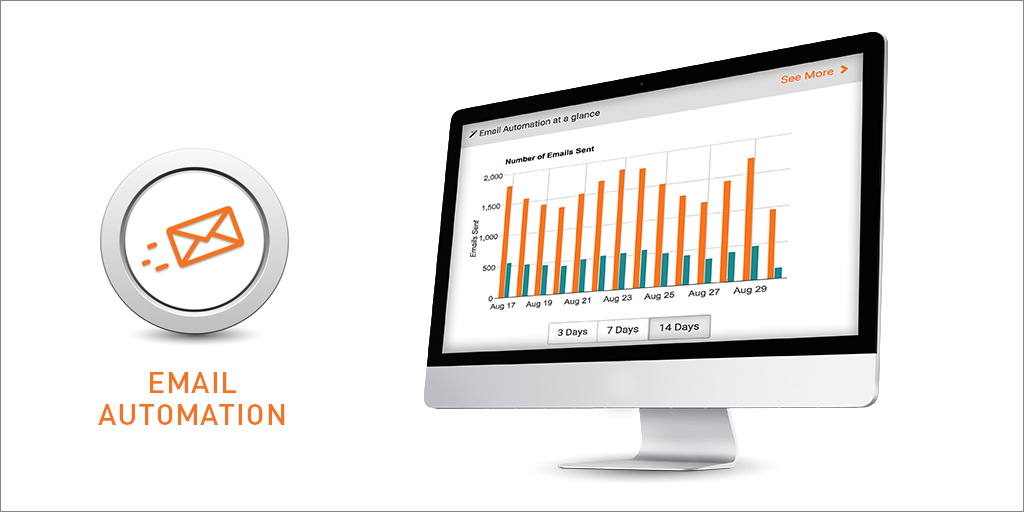
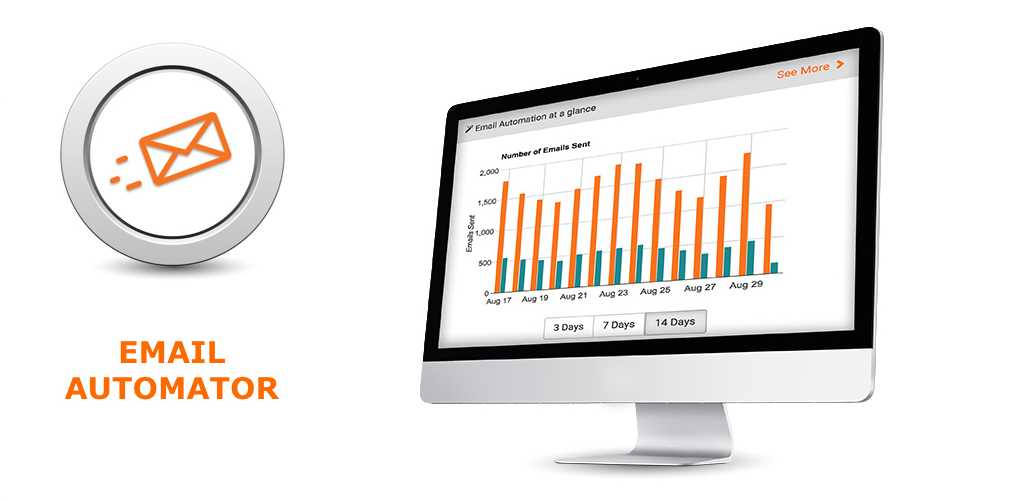
Feedback Manager page updated

diff --git a/content/pages/feedback.html b/content/pages/feedback.html
@@ -6,7 +6,7 @@
     <meta name="tool_page" content="true" />
 
 
-
+<!--
     <style>
     .container-fluid.full-width {
             padding-left: 0!important;
@@ -41,6 +41,7 @@
 
 
     </style>
+    -->
 </head>
 
 
@@ -48,30 +49,10 @@
 
     <div class="row">
     <div class="col-lg-8 col-lg-offset-2">
-        <h1 class="text-center">Feedback Manager</h1>
+        <h1 class="text-center">FEEDBACK MANAGER</h1>
+        <h2 class="text-center"><small>Reviews and Feedback Management for Amazon Sellers</small></h2>
+
         <p class="Class2">Reviews and feedback are the most important social proof of your product. Amazon's ranking algorithm places heavy importance on the first 21 reviews received after product launch and beyond. With Feedback Manager, you can set up alerts to track your feedback and always be ready to support buyers by taking quick action. At any time, search all of your feedback and reviews and detect patterns for potential problems.</p>
-
-        <!--
-        <p>Reviews are, by far, the most important social proof of your product.
-        When a buyer leaves a negative review, you want to quickly connect with them and help out.
-        We provide accurate buyer-reviewer matching, including for anonymous 'Amazon Customers'.
-        Our Review Matcher notifies you about reviews and feedback.
-        At any time, you can search all of your reviews within the our Data Warehouse. </p>
-
-        <p><strong style="color: darkorange">Update</strong>: Efficient Era's buyer-review matching is back!
-            We can once again match your
-            reviews to buyers, after the changes Amazon made it their pages on October 26th, 2017.
-            We are also aware that this is not likely to be a permanent solution.
-            Amazon’s recent changes to their web pages has convinced us that they could make changes to
-            their pages and services at any time. While this might be a recurring theme, we are
-            committed to evolving and finding ways to help you connect the dots and fill in the gaps
-            that Amazon leaves behind. We want our tools to make it easy for you as a seller,
-            to operate at maximum efficiency.
-
-            As a leader in the space of buyer-review matching, we are committed to continue bringing you
-            the <strong><i>most reliable</i></strong> solutions for your review matching needs.
-        </p>
-        -->
     </div>
     </div>
 
@@ -85,68 +66,47 @@
     <div class="row">
     <div class="col-lg-4 col-lg-offset-2">
                  <p>
-                            <ul class="fa-ul">
-<!--                                <li class=""><i class="fa-li fa fa-check-square" style="color: darkorange"></i><span style="color:#009999; font-weight: 600"><strong>Automatic Buyer-Reviewer Matching</strong></span></li>
-                            <p>We can accurately match your reviews to buyer IDs for verified purchases made from your seller account
-                            if you provide us with Seller Central credentials. But even in the absence of Seller Central credentials,
-                            we can still match them with about 35% accuracy. All your reviews can be searched, filtered and exported.
-                            </p>
+                    <ul class="fa-ul">
+                    <li class=""><i class="fa-li fa fa-rocket" style="color: darkorange"></i><span style="color:#009999; font-weight: 600"><strong>Review Alerts</strong></span></li>
+                    <p>
+                    You don't want to miss knowing when a review was posted. This is especially true of negative reviews.
+                        Set up an alert with a rule to either send yourself a mail for each review or as a daily digest.
+                        You can also set up alerts for multiple emails, even separate ones for positive and negative reviews.
 
--->
-
-
-<!--                            <li class=""><i class="fa-li fa fa-check-square" style="color: darkorange"></i><span style="color:#009999; font-weight: 600"><strong>Review Changes</strong></span></li>
-                            <p>
-                            If you are doing the right things to help resolve customer issues, chances are they might change their rating or review text. You know that it would be
-                                nearly impossible to keep track of these changes manually. Our Review Change List helps keep track of review changes automatically for you.
-                            </p>
--->
-
-                            <li class=""><i class="fa-li fa fa-rocket" style="color: darkorange"></i><span style="color:#009999; font-weight: 600"><strong>Review Alerts</strong></span></li>
-                            <p>
-                            You don't want to miss knowing when a review was posted. This is especially true of negative reviews.
-                                Set up an alert with a rule to either send yourself a mail for each review or as a daily digest.
-                                You can also set up alerts for multiple emails, even separate ones for positive and negative reviews.
-
-                            </p>
-                            <li class=""><i class="fa-li fa fa-rocket" style="color: darkorange"></i><span style="color:#009999; font-weight: 600"><strong>Order Lookup</strong></span></li>
-                            <p>
-                            There are two ways to look up your order matches. If we are able to match a review for you the order number shows up in the Review List.
-                            If not, you can still trace them manually via the Orders List in our Data Warehouse.
-                            Click <a href="https://efficientera.com/blog/2017/11/heres-why-your-amazon-business-needs-a-data-warehouse.html" target="_blank" style="color: darkorange;">here</a>
-                            for ideas on how you can do this using wish lists and registries.
-                            </ul>
-                        </p>
+                    </p>
+                    <li class=""><i class="fa-li fa fa-rocket" style="color: darkorange"></i><span style="color:#009999; font-weight: 600"><strong>Order Lookup</strong></span></li>
+                    <p>
+                    There are two ways to look up your order matches. If we are able to match a review for you the order number shows up in the Review List.
+                    If not, you can still trace them manually via the Orders List in our Data Warehouse.
+                    Click <a href="https://efficientera.com/blog/2017/11/heres-why-your-amazon-business-needs-a-data-warehouse.html" target="_blank" style="color: darkorange;">here</a>
+                    for ideas on how you can do this using wish lists and registries.
+                    </ul>
+                </p>
     </div>
     <div class="col-lg-4">
                  <p>
-                            <ul class="fa-ul">
+                    <ul class="fa-ul">
+                    <li class=""><i class="fa-li fa fa-rocket" style="color: darkorange"></i><span style="color:#009999; font-weight: 600"><strong>Review Charts</strong></span></li>
+                    <p>
+                        While you won't need to see these every day, review charts are a useful analytical tool that provides visual cues
+                        to gauge the overall health of your reviews. We provide charts showing aggregate and cumulative values of your reviews and ratings over time.
+                        You can also see the breakdown of your reviews by geography.
+                    </p>
 
+                    <li  class=""><i class="fa-li fa fa-rocket" style="color: darkorange"></i><span style="color:#009999; font-weight: 600"><strong>Seller Feedback</strong></span></li>
+                    <p>
+                    While Seller Feedback is different from product reviews, a lot of buyers confuse the two and leave product
+                        related feedback instead. Our seller feedback list is a searchable repository of all your seller feedback.
+                        We also provide automatic seller feedback response automation for negative ratings.
 
-                            </p>
-                            <li class=""><i class="fa-li fa fa-rocket" style="color: darkorange"></i><span style="color:#009999; font-weight: 600"><strong>Review Charts</strong></span></li>
-                            <p>
-                                While you won't need to see these every day, review charts are a useful analytical tool that provides visual cues
-                                to gauge the overall health of your reviews. We provide charts showing aggregate and cumulative values of your reviews and ratings over time.
-                                You can also see the breakdown of your reviews by geography.
-                            </p>
-
-                            <li  class=""><i class="fa-li fa fa-rocket" style="color: darkorange"></i><span style="color:#009999; font-weight: 600"><strong>Seller Feedback</strong></span></li>
-                            <p>
-                            While Seller Feedback is different from product reviews, a lot of buyers confuse the two and leave product
-                                related feedback instead. Our seller feedback list is a searchable repository of all your seller feedback.
-                                We also provide automatic seller feedback response automation for negative ratings.
-
-                            </p>
-                            </ul>
-                        </p>
-
-
+                    </p>
+                    </ul>
+                </p>
     </div>
     </div>
 
     <div>
-        <br></br>
+        <br>
     </div>
 
     <div class="jumbotron">
@@ -161,7 +121,7 @@
         </p>
 
     </div>
-
+    </div>
 
 </body>
 </html>

diff --git a/content/pages/postorder.html b/content/pages/postorder.html
@@ -1,16 +1,114 @@
 <html>
 <head>
-    <title>Email Automation</title>
+    <title>Email Automator</title>
     <meta name="save_as" content="pages/postorder/index.html" />
     <meta name="no_well" content="true" />
+    <meta name="tool_page" content="true" />
 </head>
 <body>
+
+
+
+    <div class="row">
+    <div class="col-lg-8 col-lg-offset-2">
+        <h1 class="text-center" style="font-weight: 500">EMAIL AUTOMATOR</h1>
+        <h2 class="text-center"><small>Email Auto-Responder for Amazon Sellers</small></h2>
+        <p class="Class2"> Even with buyer opt-outs, sending follow-up emails is totally worth it! Our easy-to-use Email Automator helps you trigger emails when a product is ordered, shipped or delivered. Fully integrated with Amazon's Buyer-Seller Messaging service, and within Terms of Service.
+            Weave placeholders into your message to dynamically address the buyer by full name, include the product they bought and add links to leave reviews. Create eye-catching emails with our rich text editor or customize the HTML.</p>
+    </div>
+    </div>
+        <br>
+
+
+    <div class="row">
+        <div class="col-lg-8 col-lg-offset-2">
+            <div class="row">
+                <img src="/images/pages/emailAutomationBanner.jpg" width="100%" alt="Amazon Email Automation, Tools for Amazon Sellers, Amazon Seller Tools, Email Autoresponder">
+            </div>
+    </div>
+
+    <div class="row">
+    <div class="col-lg-4 col-lg-offset-2">
+                 <p>
+                    <ul class="fa-ul">
+                    <li class=""><i class="fa-li fa fa-rocket" style="color: darkorange"></i><span style="color:#009999; font-weight: 600"><strong>Customizable Email Templates</strong></span></li>
+                    <p>
+                    Email Automator comes with pre-populated post-order email templates that you can modify and customize based on your requirements.
+                    Our placeholders make it easy for you to personalize your message for each order, for example, by addressing the customer by their full name or
+                    referring to their order number, without having to manually reference it.
+
+                    </p>
+                    <li class=""><i class="fa-li fa fa-rocket" style="color: darkorange"></i><span style="color:#009999; font-weight: 600"><strong>Images and Attachments</strong></span></li>
+                    <p>
+                    Inserting images is easy with Email Automator's formatting tool. We support standard image formats.
+                        You can also insert PDFs (within Amazon Terms of Service).
+                        Create a global collection of PDFs that you can use across multiple campaigns.
+                        Attach upto 10 attachments per email campaign.
+
+
+                    <li class=""><i class="fa-li fa fa-rocket" style="color: darkorange"></i><span style="color:#009999; font-weight: 600"><strong>Trigger Based Delivery</strong></span></li>
+                    <p>
+                    We provide 3 types of events to trigger your emails based on when an order is confirmed, shipped or delivered.
+                        While confirmed and shipped dates are inputs from real time Amazon data, the delivered date is an estimate
+                        or arrival based on historical averages on distances.
+                    </ul>
+                </p>
+    </div>
+    <div class="col-lg-4">
+                 <p>
+                    <ul class="fa-ul">
+                    <li class=""><i class="fa-li fa fa-rocket" style="color: darkorange"></i><span style="color:#009999; font-weight: 600"><strong>Embed Review Request Links</strong></span></li>
+                    <p>
+                        While you won't need to see these every day, review charts are a useful analytical tool that provides visual cues
+                        to gauge the overall health of your reviews. We provide charts showing aggregate and cumulative values of your reviews and ratings over time.
+                        You can also see the breakdown of your reviews by geography.
+                    </p>
+
+                    <li  class=""><i class="fa-li fa fa-rocket" style="color: darkorange"></i><span style="color:#009999; font-weight: 600"><strong>Check Email Open Rates</strong></span></li>
+                    <p>
+                    While Seller Feedback is different from product reviews, a lot of buyers confuse the two and leave product
+                        related feedback instead. Our seller feedback list is a searchable repository of all your seller feedback.
+                        We also provide automatic seller feedback response automation for negative ratings.
+
+                    </p>
+                    <li class=""><i class="fa-li fa fa-rocket" style="color: darkorange"></i><span style="color:#009999; font-weight: 600"><strong>Manage Blacklist and Opt-Outs</strong></span></li>
+                    <p>
+                    There are two ways to look up your order matches. If we are able to match a review for you the order number shows up in the Review List.
+                    If not, you can still trace them manually via the Orders List in our Data Warehouse.
+                    Click <a href="https://efficientera.com/blog/2017/11/heres-why-your-amazon-business-needs-a-data-warehouse.html" target="_blank" style="color: darkorange;">here</a>
+                    for ideas on how you can do this using wish lists and registries.
+
+                    </ul>
+                </p>
+    </div>
+
+    </div>
+
+    <div>
+        <br>
+    </div>
+
+    <div class="jumbotron">
+        <p>Ready to try out Efficient Era? Note, that Email Automator is only one of our many sought-after tools. Once you
+            sign up for your 30-day trial period, you can unleash the full functionality of all our tools. Our scalable
+            pricing model makes us an attractive choice for both small and large sellers. Use our pricing calculator to to see how
+            affordable Efficient Era is. More details are
+            <a href="https://efficientera.com/pricing/" target="_blank" style="color: darkorange"> here</a>.
+
+            <br>Not ready yet and have more questions? Our Redmond based team is happy to help you with answers. Email us at support@efficientera.com.
+
+        </p>
+
+    </div>
+    </div>
+
+<!--
 
 <div class="row vcenter">
 <div class="col-md-8">
     <p>
     <img src="/images/pages/emailAutomationBanner.jpg" class="img-thumbnail" alt="Amazon Email Automation">
-        <!--    <img src="/images/pages/emails.jpg" class="img-thumbnail">-->
+
     </p>
 
 
@@ -112,6 +210,9 @@
 
 </div>
 </div>
+
+
+-->
 </body>
 </html>
 

diff --git a/content/pages/pricing.html b/content/pages/pricing.html
@@ -11,8 +11,8 @@
     <div class="row" style="background-color: white; border: none">
         <div class="col-sm-12 col-lg-12 text-center">
             <img class="center-block" src="../images/pages/Pricing-banner-06.jpg" width="60%" align="center" alt="Tools for Amazon Sellers Amazon Seller Tools"/>
-            <h1>Scalable Pricing for Every Business</h1>
-            <h4><small>Efficient Era's scalable pricing model is based on your usage of our services, calculated monthly at:</small></h4>
+            <h1>Scalable Pricing for Your Amazon Business</h1>
+            <p class="Class2" style="color:dimgrey">Efficient Era's scalable pricing model is based on your monthly usage of our services, calculated monthly at:</p>
         </div>
         <div class="col-lg-10 col-lg-offset-1">
             <div class="text-center">
@@ -95,7 +95,7 @@
                             <hr style="width: 80%; margin-top: 15px; margin-bottom: 15px;">
                             <div style="color: white;"><span style="font-size: 350%;" id="demo">$0</span></div>
                             <div style="padding: 10px; background-color: white; margin: 25px; border-radius:3px;">
-                                <p class="text-left" style="padding-left: 7px; padding-right: 7px; padding-top: 7px;">Now, it's your turn to calculate. Enter your monthly orders and ASINs. Your monthly charge will appear above.</p>
+                                <p class="text-left" style="padding-left: 7px; padding-right: 7px; padding-top: 7px;">How much do I pay? Enter your monthly orders and ASINs. Your monthly charge will appear above.</p>
                                 <form class="form-inline" style="margin: 3px;">
                                     <label for="orders" class="col-form-label" style="width: 45px;">Orders</label>
                                     <input class="form-control" type="number" placeholder="Orders" value="0" id="orders" onchange="calc();" oninput="calc();" style="width: 100px;">
@@ -123,7 +123,7 @@
             <p>
                 You're probably using a lot of tools from a lot of providers. Most providers
                 offer tiered pricing models. For 1000 orders a month on 5 ASINs, your Email Automation software could cost
-                around $40/month. Throw in a Review Monitoring and ID matching tool at $40/month. And if you want to
+                around $40/month. Throw in a Review Monitoring tool at $40/month. And if you want to
                 get Hijack Alerts, you are likely to be paying another $40/month. Do the math, that's $120 right there!
                 These numbers add up pretty quickly.
             </p>
@@ -138,10 +138,11 @@
             <div class="col-lg-4">
                 <h4>Alerts</h4>
                 <ul class="fa-ul">
-                    <li class=""><i class="fa-li fa fa-check-square" style="color: rgb(255, 117, 26);"></i>Review and Feedback Alerts</li>
+                    <li class=""><i class="fa-li fa fa-check-square" style="color: rgb(255, 117, 26);"></i>Review Alerts</li>
                     <li class=""><i class="fa-li fa fa-check-square" style="color: rgb(255, 117, 26);"></i>Buy Box Monitor</li>
                     <li class=""><i class="fa-li fa fa-check-square" style="color: rgb(255, 117, 26);"></i>Hijack Alerts</li>
-                    <li class=""><i class="fa-li fa fa-check-square" style="color: rgb(255, 117, 26);"></i>Question and Returns Alerts</li>
+                    <li class=""><i class="fa-li fa fa-check-square" style="color: rgb(255, 117, 26);"></i>Questions Alerts</li>
+                    <li class=""><i class="fa-li fa fa-check-square" style="color: rgb(255, 117, 26);"></i>Returns Alerts</li>
                 </ul>
             </div>
             <div class="col-lg-4">
@@ -149,17 +150,17 @@
                 <ul class="fa-ul">
                     <li class=""><i class="fa-li fa fa-check-square" style="color: rgb(255, 117, 26);"></i>Data Warehouse</li>
                     <li class=""><i class="fa-li fa fa-check-square" style="color: rgb(255, 117, 26);"></i>Performance Charts</li>
-                    <li class=""><i class="fa-li fa fa-check-square" style="color: rgb(255, 117, 26);"></i>Inventory Health Analyzer</li>
+                    <li class=""><i class="fa-li fa fa-check-square" style="color: rgb(255, 117, 26);"></i>Inventory Analyzer</li>
                     <li class=""><i class="fa-li fa fa-check-square" style="color: rgb(255, 117, 26);"></i>Ad Analyzer</li>
                 </ul>
             </div>
             <div class="col-lg-4">
                 <h4>Automation</h4>
                 <ul class="fa-ul">
-                    <li class=""><i class="fa-li fa fa-check-square" style="color: rgb(255, 117, 26);"></i>Review Matcher</li>
+                    <li class=""><i class="fa-li fa fa-check-square" style="color: rgb(255, 117, 26);"></i>Funnel Manager</li>
                     <li class=""><i class="fa-li fa fa-check-square" style="color: rgb(255, 117, 26);"></i>Email Automator</li>
-                    <li class=""><i class="fa-li fa fa-check-square" style="color: rgb(255, 117, 26);"></i>Seller Feedback Automation</li>
-                    <li class=""><i class="fa-li fa fa-check-square" style="color: rgb(255, 117, 26);"></i>VAT Invoice Automator</li>
+                    <li class=""><i class="fa-li fa fa-check-square" style="color: rgb(255, 117, 26);"></i>Feedback Automator</li>
+                    <li class=""><i class="fa-li fa fa-check-square" style="color: rgb(255, 117, 26);"></i>VAT Automator</li>
                 </ul>
             </div>
         </div>

diff --git a/content/templates/index.html b/content/templates/index.html
@@ -77,7 +77,7 @@
                 <div class="col-xs-12 col-sm-6">
                 <div class="row feature-panel">
 
-                   <!--<a href="/pages/feedback/">-->
+                   <a href="/pages/feedback/">
                     <div class="col-xs-2 col-sm-3 img-main">
                         <img class="img img-responsive " src="images/icons/Seller Feedback Alerts1.png" alt="Amazon Seller Feedback, Buyer-Review Matching ,Buyer-Reviewer Matching">
                     </div>
@@ -94,7 +94,7 @@
                         of your feedback and reviews and detect patterns for potential problems.
                          </p>
                     </div>
-                       <!-- </a>-->
+                   </a>
                 </div>
                 </div>
 

diff --git a/pelicanconf.py b/pelicanconf.py
@@ -31,12 +31,14 @@ AUTHOR_FEED_RSS = None
 #RELATIVE_URLS = True
 
 # Menu
-MENUITEMS_RIGHT = (('Blog', '/blog/'),
-                   ('About', '/about/'),
-                   ('Affiliate', '/pages/affiliate'),
-                   ('Resources', '/resources/'),
-                   ('Pricing', '/pricing/'),
-                   ('Support', '/support/'))
+MENUITEMS_RIGHT = (
+                    ('Pricing', '/pricing/'),
+                    ('Blog', '/blog/'),
+                    ('Resources', '/resources/'),
+                    ('Support', '/support/'),
+                    ('Affiliate', '/pages/affiliate'),
+                    ('About', '/about/')
+                   )
 
 # Post Settings
 DEFAULT_PAGINATION = 8
